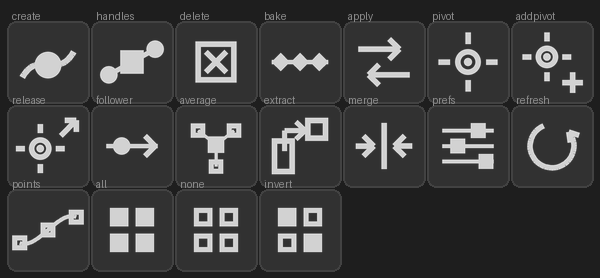
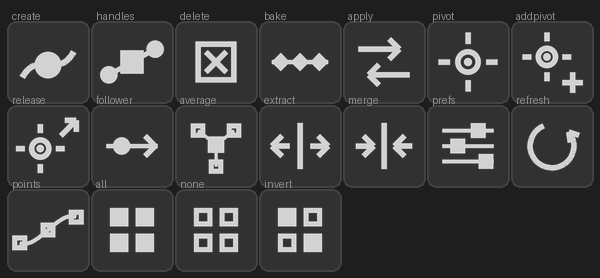
Extract and Merge join the top row; it runs smaller to fit them
They act on whole layers rather than on anything rigged, so they belong
with the other utilities rather than in a tab of their own. That emptied
the Layers tab, which is gone - three tabs now, Points, Pivot and Follow.

All four sections would not fit on one line at 32 points: the dropdown,
eight icons, three rules and the gaps came to 423 against the 368 inside
the panel's margins. The top row now runs at 26, the dropdown with it, and
comes to 359. One height per row rather than one for the whole panel - the
tabs keep 32, and the tests check each row is internally consistent rather
than hunting for a single number.

The extract icon was two boxes and a bent arrow, which said nothing beside
merge. It is merge's mirror now: one bar with arrows leaving it, against
one bar with arrows meeting at it.

Changed region(s): [[0.45, 0.4029, 0.57, 0.6331]]

diff --git a/Vertex Rig.jsx b/Vertex Rig.jsx
@@ -2983,6 +2983,10 @@
     // controls that happen to be next to each other.
     var UI_H = 32;
     var ICON_PX = UI_H;
+    // The top row is the utility row - what the panel shows, what is picked,
+    // and the things that act on whole layers. It runs smaller than the tabs,
+    // which is what lets all four of its sections sit on one line.
+    var HEAD_PX = 26;
     var ICON_UNITS = 28;
 
     var ICON_ART = {
@@ -2996,7 +3000,7 @@
         "release": [["c",2.2,11,15,4.4],["c",0,11,15,1.5],["p",2.2,[11,5.5,11,9]],["p",2.2,[1.5,15,5,15]],["p",2.2,[11,21,11,24.5]],["p",2.2,[17,15,20.5,15]],["p",2.2,[19,10,25,4]],["p",2.2,[20.5,4,25,4,25,8.5]]],
         "follower": [["p",1.76,[4,14,24,14]],["c",0,10,14,3.4],["p",2.2,[19,10.0,23,14,19,18.0]]],
         "average": [["p",1.32,[14,13.5,7,8]],["p",1.32,[14,13.5,21,8]],["p",1.32,[14,13.5,14,22]],["r",1.98,7,8,2.8],["r",1.98,21,8,2.8],["r",1.98,14,22,2.8],["r",0,14,13.5,3.2]],
-        "extract": [["x",2.2,3,11,12,25],["x",2.2,16,3,25,12],["p",1.98,[8,16,8,8,15,8]],["p",1.98,[12.4,4.6,16,8,12.4,11.4]]],
+        "extract": [["p",2.2,[14,5,14,23]],["p",2.2,[10,14,4,14]],["p",2.2,[7,10,3,14,7,18]],["p",2.2,[18,14,24,14]],["p",2.2,[21,10.0,25,14,21,18.0]]],
         "merge": [["p",2.2,[14,5,14,23]],["p",2.2,[3,14,9,14]],["p",2.2,[6,10.0,10,14,6,18.0]],["p",2.2,[25,14,19,14]],["p",2.2,[22,10,18,14,22,18]]],
         "prefs": [["p",1.54,[4,8,24,8]],["r",0,18,8,2.9],["p",1.54,[4,14,24,14]],["r",0,10,14,2.9],["p",1.54,[4,20,24,20]],["r",0,21,20,2.9]],
         "refresh": [["p",2.2,[20.5,8.5,21.0,9.2,21.5,10.0,21.9,10.8,22.2,11.7,22.4,12.5,22.5,13.4,22.5,14.3,22.4,15.2,22.2,16.1,22.0,16.9,21.6,17.7,21.2,18.5,20.7,19.2,20.1,19.9,19.5,20.5,18.8,21.0,18.0,21.5,17.2,21.9,16.3,22.2,15.5,22.4,14.6,22.5,13.7,22.5,12.8,22.4,11.9,22.2,11.1,22.0,10.3,21.6,9.5,21.2,8.8,20.7,8.1,20.1,7.5,19.5,7.0,18.8,6.5,18.0,6.1,17.2,5.8,16.3,5.6,15.5,5.5,14.6,5.5,13.7,5.6,12.8,5.8,11.9,6.0,11.1,6.4,10.3,6.8,9.5,7.3,8.8,7.9,8.1,8.5,7.5,9.2,7.0,10.0,6.5,10.8,6.1]],["p",2.2,[20.5,8.5,24.5,9.8]],["p",2.2,[20.5,8.5,21.1,12.7]]],
@@ -3289,39 +3293,50 @@
         var scopeDd = head.add("dropdownlist", undefined,
                                ["Selected layers", "All layers"]);
         scopeDd.selection = 0;
-        scopeDd.preferredSize = [120, UI_H];
+        scopeDd.preferredSize = [104, HEAD_PX];
 
         // A hairline between the groups of the row: what it shows, what is
-        // picked, and what the panel does to it. 120 + 6*32 + 2 + 8*4 = 346 of
-        // the 368 points inside the panel's margins.
+        // picked, what moves shapes between layers, and what the panel does to
+        // the rig. 104 + 8*26 + 3 + 11*4 = 359 of the 368 points inside the
+        // panel's margins.
         function headRule() {
             var sep = head.add("panel");
             sep.alignment = ["left", "center"];
-            sep.minimumSize = [1, 10];
-            sep.preferredSize = [1, UI_H - 10];
-            sep.maximumSize = [1, UI_H];
+            sep.minimumSize = [1, 8];
+            sep.preferredSize = [1, HEAD_PX - 8];
+            sep.maximumSize = [1, HEAD_PX];
             return sep;
         }
 
         var bRefresh = act(head, "refresh", "Refresh",
-                           "Read the composition again and frame it", 62);
+                           "Read the composition again and frame it", 62, HEAD_PX);
         var bPoints = act(head, "points", "Show points",
-                          "Show the path's own points in the composition", 76);
+                          "Show the path's own points in the composition", 76, HEAD_PX);
         headRule();
         // One button for both: it offers All while nothing is picked and None
         // once something is, so the picture always shows what pressing it does.
-        var bPick = act(head, "all", "All", "Pick every point in view", 40);
+        var bPick = act(head, "all", "All", "Pick every point in view", 40, HEAD_PX);
         bPick.onDraw = function (st) {
             paintIconButton(this, countSel() ? ICON_ART.none : ICON_ART.all, st);
         };
-        var bInv = act(head, "invert", "Invert", "Pick what is not picked, and let the rest go", 52);
+        var bInv = act(head, "invert", "Invert",
+                       "Pick what is not picked, and let the rest go", 52, HEAD_PX);
         headRule();
-        var bPrefs = act(head, "prefs", "Prefs", "Colours, sizes and shapes of the controls", 54);
+        // These two move shapes between layers rather than rigging anything,
+        // so they are their own group rather than a tab of their own.
+        var bExtract = act(head, "extract", "Extract",
+                           "Move the picked shapes into layers of their own", 62, HEAD_PX);
+        var bMerge = act(head, "merge", "Merge",
+                         "Fold the selected shape layers into the topmost one", 58, HEAD_PX);
+        headRule();
+        var bPrefs = act(head, "prefs", "Prefs",
+                         "Colours, sizes and shapes of the controls", 54, HEAD_PX);
         // Delete takes off whatever the rig put on, whichever tab made it, so
         // it belongs up here rather than inside one of them. Last in the row,
         // away from the selection buttons.
         var bDel = act(head, "delete", "Delete",
-                       "Remove the picked points, or the selected handles, pivot or follower", 58);
+                       "Remove the picked points, or the selected handles, pivot or follower",
+                       58, HEAD_PX);
 
         var cv = win.add("group");
         cv.alignment = ["fill", "fill"];
@@ -3352,16 +3367,17 @@
         // the icons and nothing else. A picture has to be able to say what it
         // is: hovering one names the action in the line above the tabs, and
         // the tooltip says it too for anyone who waits.
-        function act(g, icon, label, tip, textWidth) {
+        function act(g, icon, label, tip, textWidth, size) {
             var art = ICON_ART[icon];
+            var px = size || ICON_PX;
             var b;
             if (art) {
                 b = g.add("iconbutton", undefined, undefined, { style: "toolbutton" });
-                b.preferredSize = [ICON_PX, ICON_PX];
+                b.preferredSize = [px, px];
                 b.onDraw = function (st) { paintIconButton(this, art, st); };
             } else {
                 b = g.add("button", undefined, label);
-                b.preferredSize = [textWidth || 66, UI_H];
+                b.preferredSize = [textWidth || 66, px];
             }
             // Read at hover time, not captured, so a button whose job
             // changes can change what it says it does.
@@ -3448,11 +3464,6 @@
         var gFol = tabRow(tFol);
         var bFol = act(gFol, "follower", "Follower", "Attach the selected layers to the picked path");
         var bAvg = act(gFol, "average", "Average", "One follower at the centre of the picked points");
-
-        var tLay = tabPage("Layers");
-        var gLay = tabRow(tLay);
-        var bExtract = act(gLay, "extract", "Extract", "Move the picked shapes into layers of their own");
-        var bMerge = act(gLay, "merge", "Merge", "Fold the selected shape layers into the topmost one");
 
         tabs.selection = 0;
 

diff --git a/Vertex Rig tests/run-test.js b/Vertex Rig tests/run-test.js
@@ -25,7 +25,7 @@ src = src.replace(marker, marker + `
         allPathSignature, checkUnchanged, carriesData, childrenOf,
         scanPrimitives, actAddToPivot, nearestT,
         followPositionExpr, setupFollower, actShowPoints, ICON_ART, drawArt, paintIconButton,
-        ICON_PX, ICON_UNITS, roundRectPath };`);
+        ICON_PX, HEAD_PX, ICON_UNITS, roundRectPath };`);
 
 const names = ["app", "CompItem", "Shape", "PropertyType", "PropertyValueType",
   "KeyframeInterpolationType", "MaskMode", "Window", "Panel", "ScriptUI", "$",
@@ -1326,8 +1326,8 @@ section("icons: drawn paths, not pictures");
 section("icons: four tabs, and hovering says what a picture does");
 {
   const tabs = M.NODES.filter(n => n.type === "tab");
-  ok(tabs.length === 4, "four tabs", tabs.length);
-  ok(tabs.map(t => t.text).join(" / ") === "Points / Pivot / Follow / Layers",
+  ok(tabs.length === 3, "three tabs", tabs.length);
+  ok(tabs.map(t => t.text).join(" / ") === "Points / Pivot / Follow",
      "named for what they hold", tabs.map(t => t.text).join(" / "));
   ok(M.NODES.filter(n => n.type === "tabbedpanel").length === 1, "in one tabbed panel");
 
@@ -1348,7 +1348,7 @@ section("icons: four tabs, and hovering says what a picture does");
 
   // the selection trio is fenced off by a rule on each side
   const rules = head._kids.filter(c => c.type === "panel");
-  ok(rules.length === 2, "two rules divide the row", rules.length);
+  ok(rules.length === 3, "three rules divide the row", rules.length);
   const at = c => head._kids.indexOf(c);
   const picks = ["Pick every point", "Pick what is not picked"]
     .map(t => head._kids.filter(c => (c.helpTip || "").indexOf(t) >= 0)[0]);
@@ -1371,16 +1371,22 @@ section("icons: four tabs, and hovering says what a picture does");
      icons.length + " vs " + actCalls);
   ok(icons.every(b => typeof b.onDraw === "function"),
      "each draws itself, so it stays sharp on a retina display");
-  ok(icons.every(b => b.preferredSize[0] === V.ICON_PX && b.preferredSize[1] === V.ICON_PX),
-     "all at the one size", V.ICON_PX + "px");
-  // icon buttons, text buttons and dropdowns all stand the same height
-  const rowKinds = M.NODES.filter(n =>
-    (n.type === "iconbutton" || n.type === "button" || n.type === "dropdownlist") &&
-    n.preferredSize && n.preferredSize[1]);
-  const offHeight = rowKinds.filter(n => n.preferredSize[1] !== V.ICON_PX);
-  ok(offHeight.length === 0,
-     "and every button and dropdown on a row stands that tall too",
-     offHeight.map(n => (n.text || n.type) + ":" + n.preferredSize[1]).join(", "));
+  ok(icons.every(b => b.preferredSize[0] === b.preferredSize[1]),
+     "all square");
+  // one height per row, rather than one height for the whole panel: the top
+  // row runs smaller than the tabs so all four of its sections fit on a line
+  const headKids = head._kids.filter(c => c.type !== "panel");
+  ok(headKids.every(c => c.preferredSize[1] === V.HEAD_PX),
+     "every control on the top row stands the same height",
+     headKids.map(c => c.preferredSize[1]).join(","));
+  const tabKids = M.NODES.filter(n =>
+    (n.type === "iconbutton" || n.type === "dropdownlist") &&
+    headKids.indexOf(n) < 0 && n.preferredSize && n.preferredSize[1]);
+  const offTab = tabKids.filter(n => n.preferredSize[1] !== V.ICON_PX);
+  ok(offTab.length === 0, "and every control in a tab stands at the other",
+     offTab.map(n => (n.text || n.type) + ":" + n.preferredSize[1]).join(", "));
+  ok(V.HEAD_PX < V.ICON_PX, "with the top row the smaller of the two",
+     V.HEAD_PX + " vs " + V.ICON_PX);
   const noTip = icons.filter(b => !b.helpTip || b.helpTip.indexOf(" - ") < 0);
   ok(noTip.length === 0, "every one has a tooltip that names it and explains it",
      noTip.length + " without");

diff --git a/Vertex Rig icons/mkicons.py b/Vertex Rig icons/mkicons.py
@@ -90,9 +90,11 @@ def average(i):
     for p_ in pts: i.p([(14,13.5), p_], W*0.6)
     for p_ in pts: i.s(p_[0], p_[1], 2.8, W*0.9)
     i.s(14,13.5, 3.2, 0)
+# The mirror of merge: one bar, arrows leaving it instead of meeting at it.
 def extract(i):
-    i.box(3,11,12,25); i.box(16,3,25,12)
-    i.p([(8,16),(8,8),(15,8)], W*0.9); i.chev(16,8,3.6, 3.4, W*0.9)
+    i.p([(14,5),(14,23)])
+    i.p([(10,14),(4,14)]); i.p([(7,10),(3,14),(7,18)])
+    i.p([(18,14),(24,14)]); i.chev(25,14,4)
 # A path with its vertices showing, which is what the button turns on.
 def points(i):
     i.b((3,19),(10,22),(18,6),(25,9), W*0.75)
